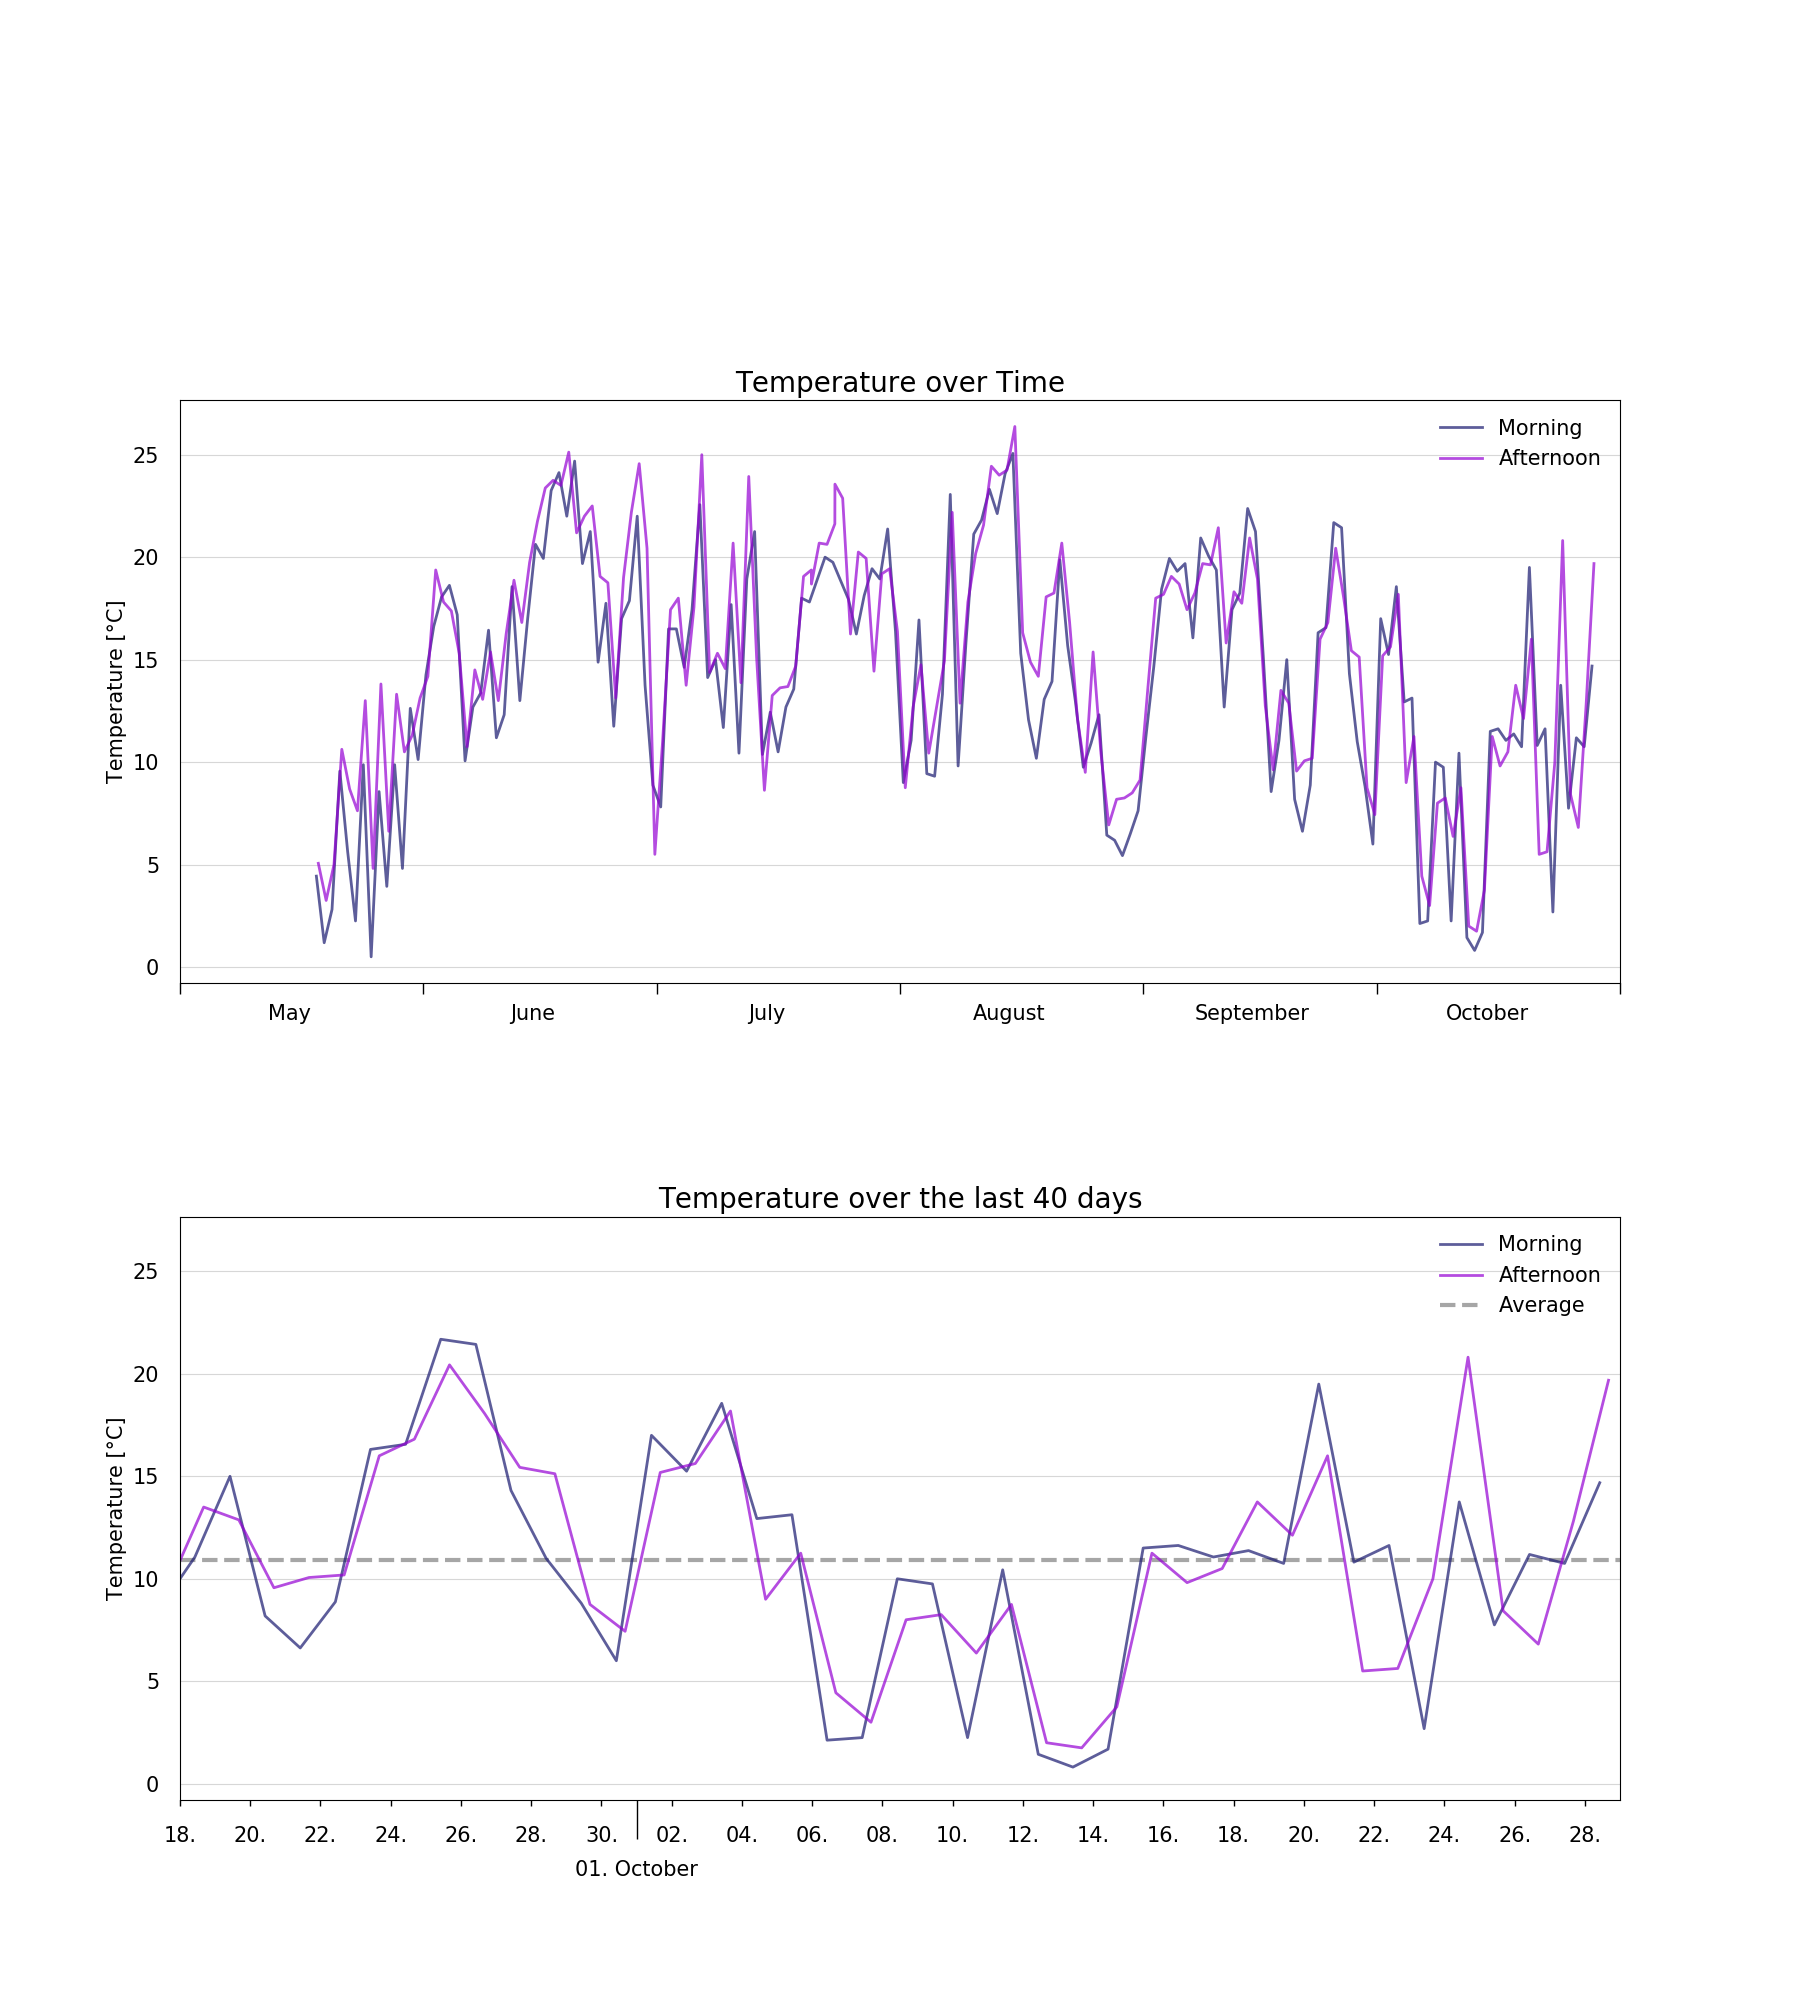
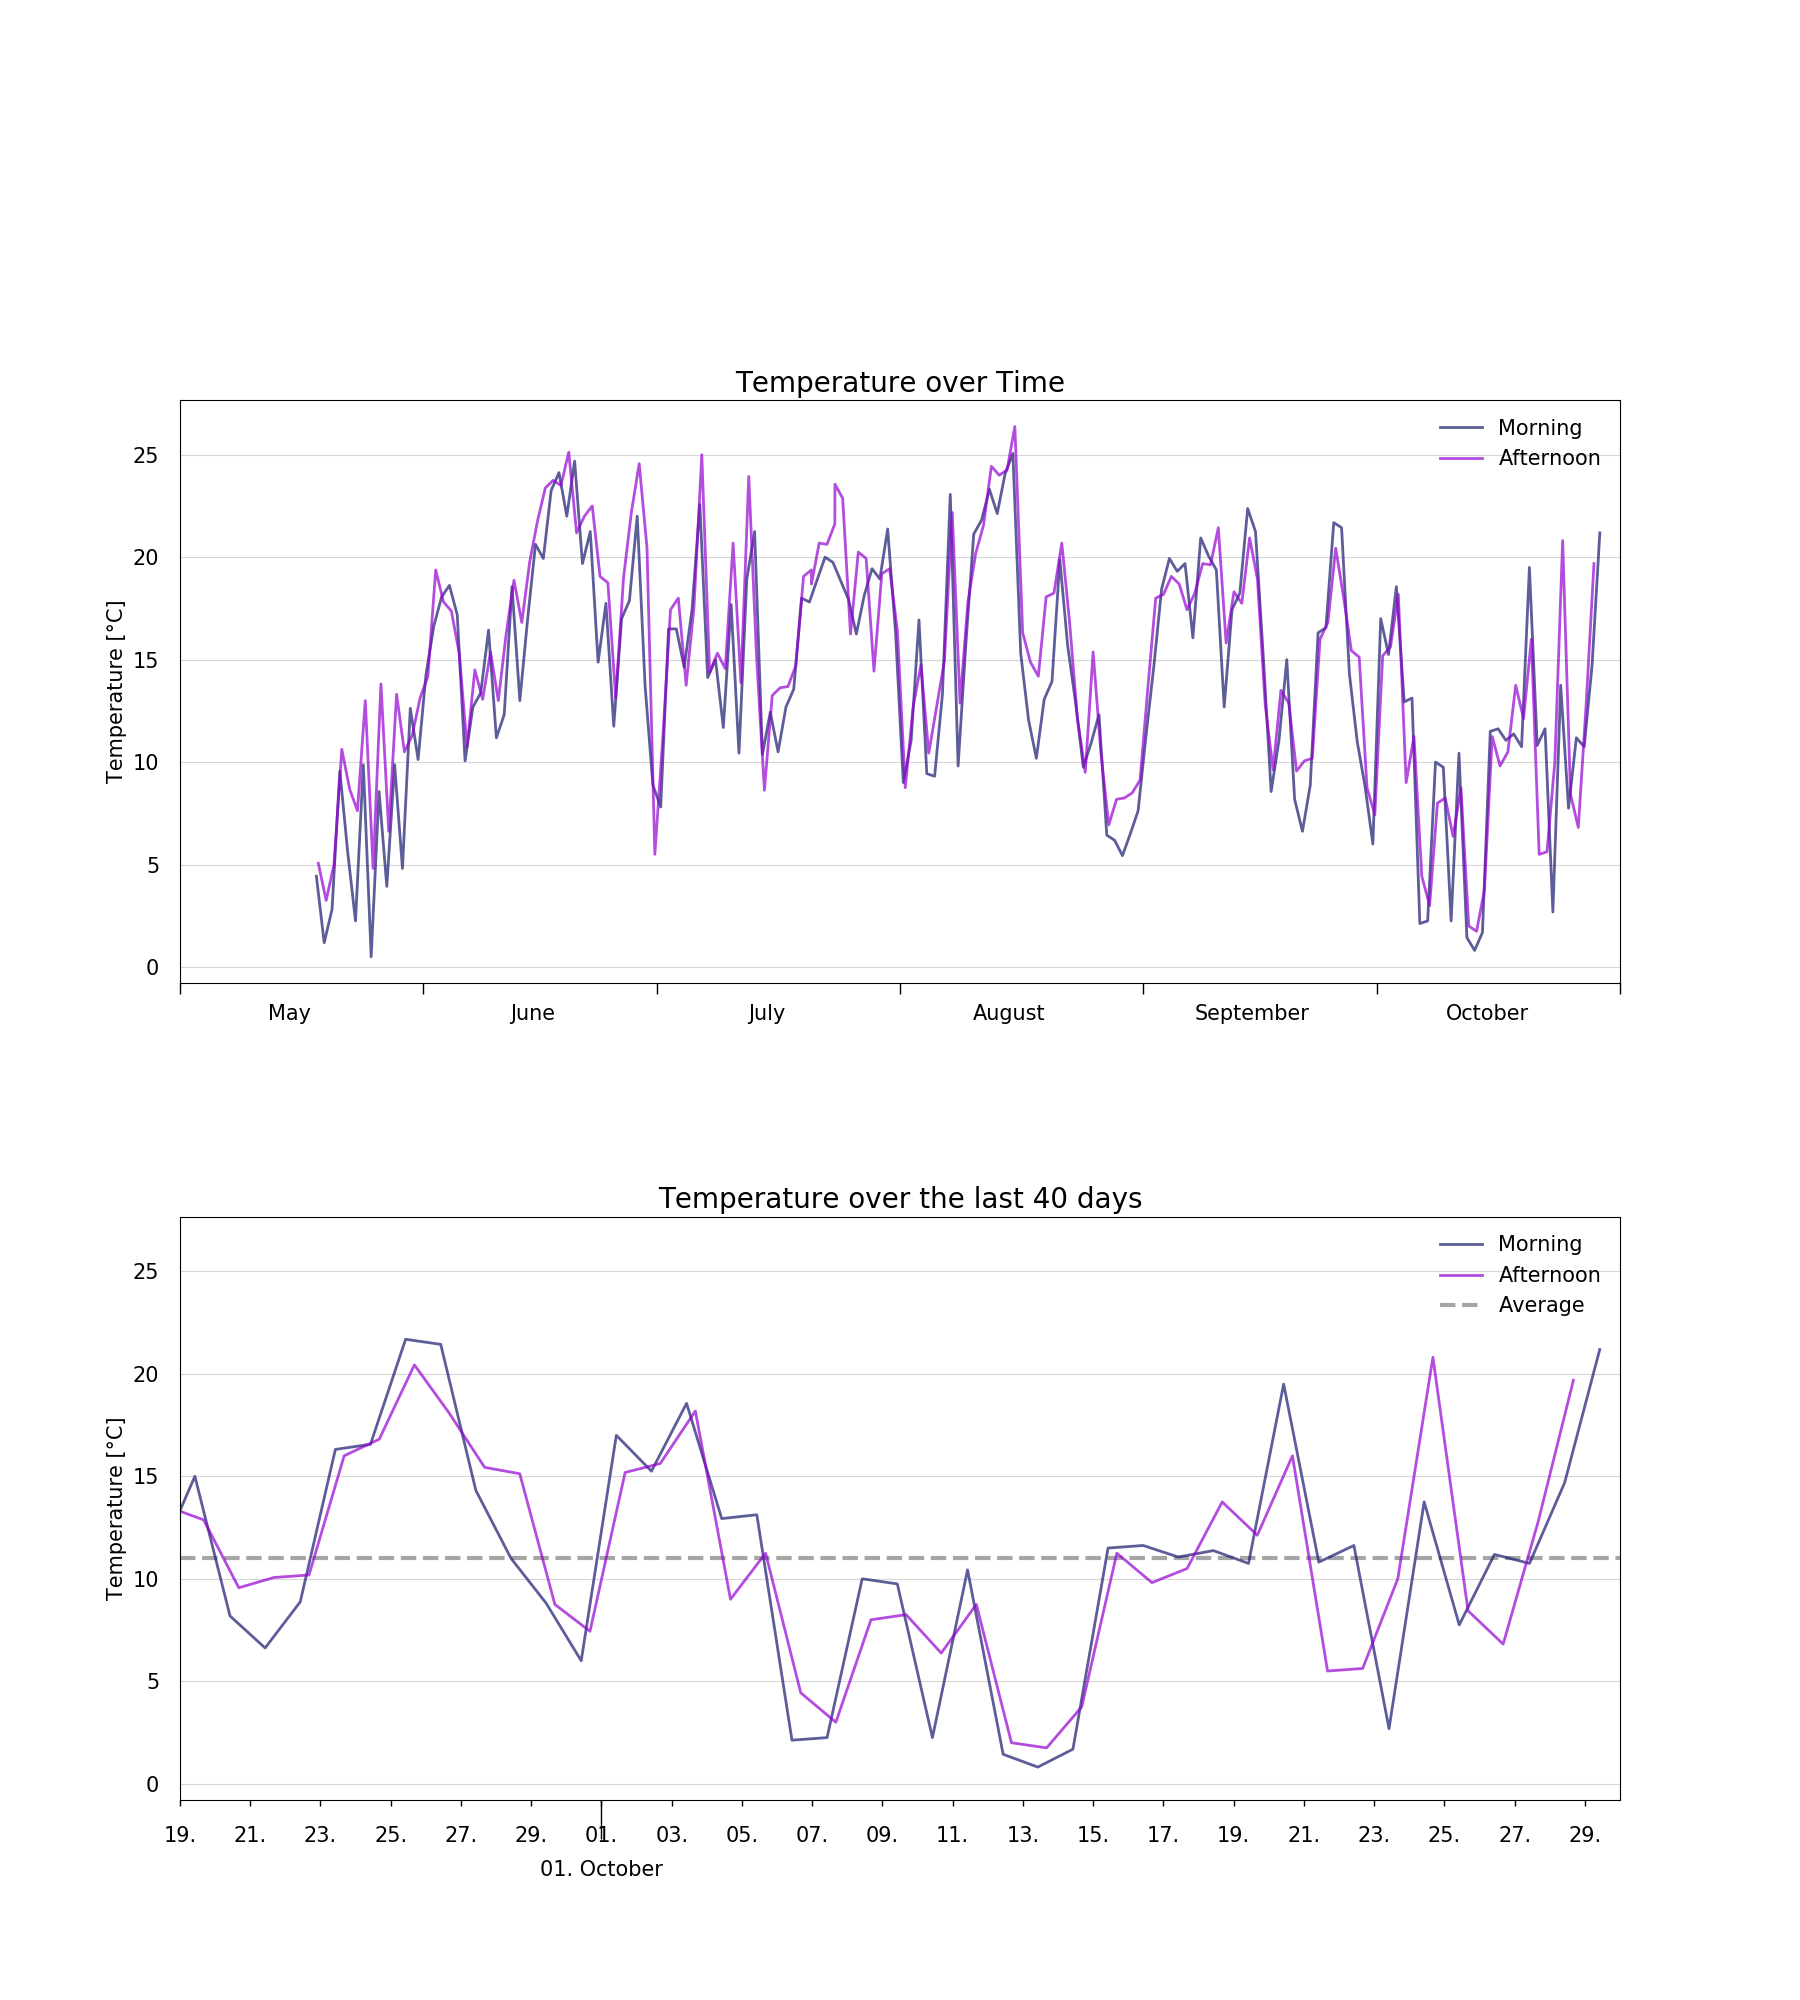
I'm a bot beep boop

Changed region(s): [[0.2178, 0.651, 0.9022, 0.899], [0.0933, 0.713, 0.2178, 0.806], [0.3111, 0.93, 0.3733, 0.961]]

diff --git a/resources/huette.md b/resources/huette.md
@@ -6,13 +6,13 @@ image: '/assets/img/'
 description: 'Live image from the Austrian alps'
 twitter_text: ' '
 ---
-## Latest image from 28 October 2021 at 16:10
+## Latest image from 29 October 2021 at 10:10
 <div class="huette">
   <div class="huette-image">
     <img src="{{ "/assets/img/huette.jpg" | prepend: site.baseurl }}">
   </div>
   <div class="huette-text">
-        <h2>Current Temperature: 19.687°C</h2>
+        <h2>Current Temperature: 21.187°C</h2>
         <p>A solar powered raspberry pi left alone in the wild is sending daily images and temperature data to this website. It should give you an impression about the current weather in the "Brixental".</p>
 
   </div>

diff --git a/rpi-script/huette.md b/rpi-script/huette.md
@@ -6,13 +6,13 @@ image: '/assets/img/'
 description: 'Live image from the Austrian alps'
 twitter_text: ' '
 ---
-## Latest image from 28 October 2021 at 16:10
+## Latest image from 29 October 2021 at 10:10
 <div class="huette">
   <div class="huette-image">
     <img src="{{ "/assets/img/huette.jpg" | prepend: site.baseurl }}">
   </div>
   <div class="huette-text">
-        <h2>Current Temperature: 19.687°C</h2>
+        <h2>Current Temperature: 21.187°C</h2>
         <p>A solar powered raspberry pi left alone in the wild is sending daily images and temperature data to this website. It should give you an impression about the current weather in the "Brixental".</p>
 
   </div>
